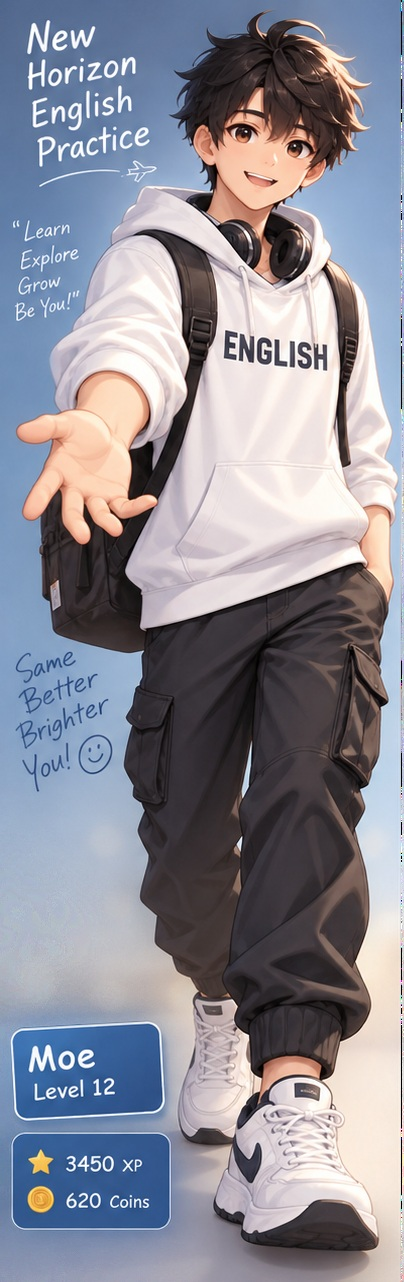
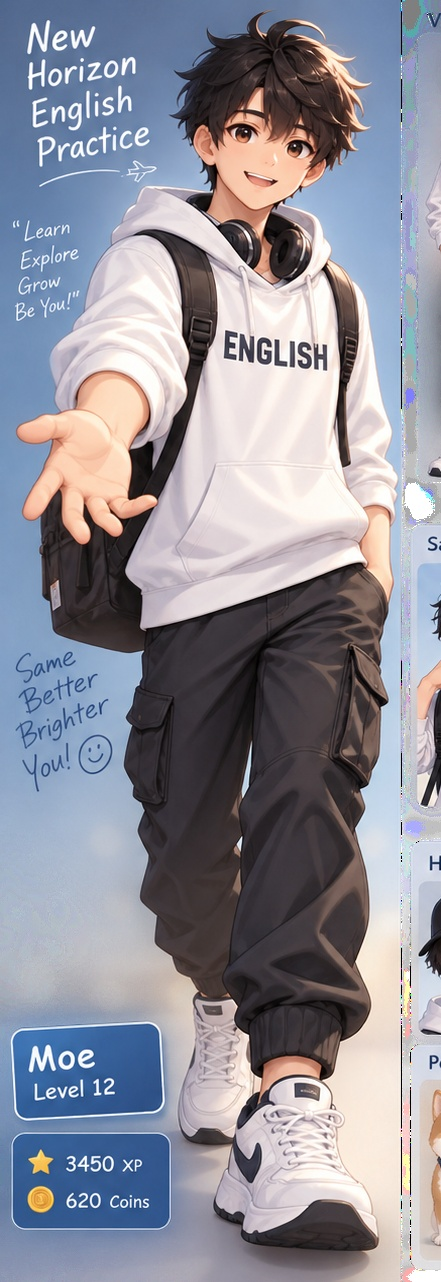
Add files via upload

diff --git a/style.css b/style.css
@@ -2,10 +2,10 @@
 body{margin:0;font-family:"Comic Sans MS","Comic Sans",cursive;background:linear-gradient(135deg,#d9efff,#fff4cf);color:#17385f;min-height:100vh}
 header{height:86px;background:#245a98;color:white;display:flex;align-items:center;justify-content:space-between;padding:0 34px;border-bottom:5px solid #153e70}
 .brand{font-size:26px}.tag{background:#ffd83d;color:#17385f;padding:10px 18px;border-radius:999px;font-weight:bold}
-main{max-width:1380px;margin:22px auto;display:grid;grid-template-columns:minmax(390px,42%) 1fr;gap:24px;padding:0 18px}
+main{max-width:1380px;margin:22px auto;display:grid;grid-template-columns:minmax(360px,36%) 1fr;gap:24px;padding:0 18px}
 .avatar-panel,.preview{background:white;border:4px solid #5c8bc0;border-radius:24px;overflow:hidden;box-shadow:0 12px 30px rgba(25,60,100,.18)}
-.scene{height:690px;position:relative;background:linear-gradient(#c8eaff,#f7e5b8);overflow:hidden}
-.scene img{width:100%;height:100%;object-fit:cover;object-position:left center;display:block}
+.scene{height:690px;position:relative;background:linear-gradient(#c8eaff,#f7e5b8);overflow:hidden;display:flex;align-items:center;justify-content:center}
+.scene img{width:100%;height:100%;object-fit:contain;object-position:center center;display:block;background:linear-gradient(#c8eaff,#f7e5b8)}
 .speech{position:absolute;right:20px;top:28px;background:white;padding:14px 18px;border-radius:18px;box-shadow:0 6px 18px #0002;transform:rotate(2deg);font-size:18px}
 .profile{padding:15px 20px;background:#eef7ff;display:flex;justify-content:space-between;align-items:center}
 .profile strong{display:block;font-size:28px}.profile span{font-size:17px}.stats{display:grid;gap:5px;font-weight:bold}
@@ -18,4 +18,4 @@ main{max-width:1380px;margin:22px auto;display:grid;grid-template-columns:minmax
 .notes h2{text-align:center}.notes p{font-size:18px;margin:11px 0}
 .coming{max-width:620px;margin:auto;background:#fff7c9;border:2px dashed #d5ae00;border-radius:15px;padding:16px;line-height:1.8}
 footer{text-align:center;padding:18px;color:#536b82}
-@media(max-width:850px){header{height:auto;padding:14px;gap:10px;flex-wrap:wrap}.brand{font-size:20px}main{grid-template-columns:1fr}.scene{height:620px}}
+@media(max-width:850px){header{height:auto;padding:14px;gap:10px;flex-wrap:wrap}.brand{font-size:20px}main{grid-template-columns:1fr}.scene{height:620px}.scene img{object-fit:contain}}

diff --git a/README.md b/README.md
@@ -1,12 +1,12 @@
-# Avatar Step 1 Test
+# Avatar Step 1 Test v2
 
-This is deliberately separate from the real vocabulary website.
+Fixes:
+- Shows the full professional anime avatar instead of cropping the head off.
+- Uses `object-fit: contain` so the full character remains visible.
+- Gives the shop side a little more room.
+- Still separate from the real vocabulary website.
 
-Upload these three files to a NEW GitHub Pages test repository:
+Upload these files to the same test repository, replacing the old ones:
 - index.html
 - style.css
 - moe-avatar.jpg
-
-Then enable GitHub Pages and open the test site.
-
-The purpose is only to check the approved professional anime avatar on a real webpage before we create interchangeable outfits.
